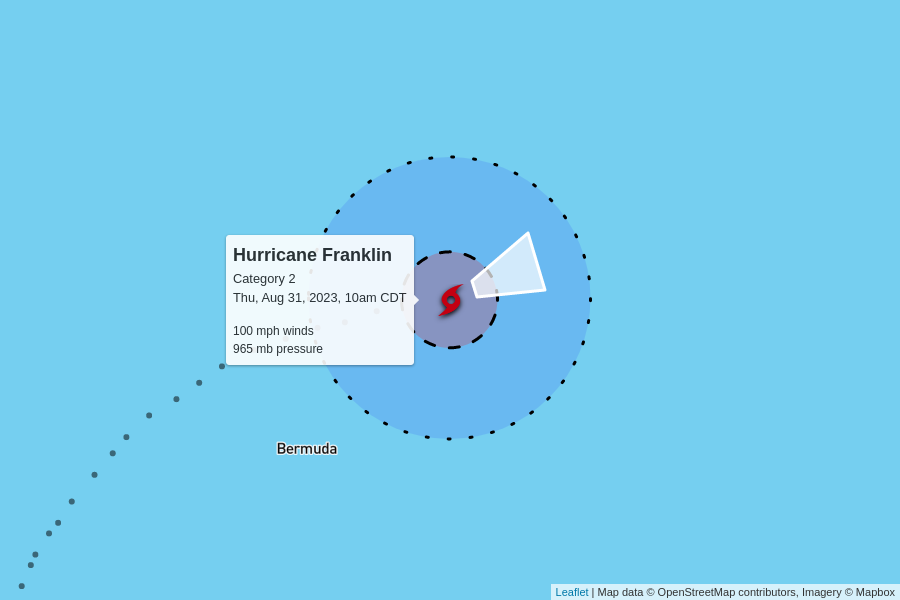
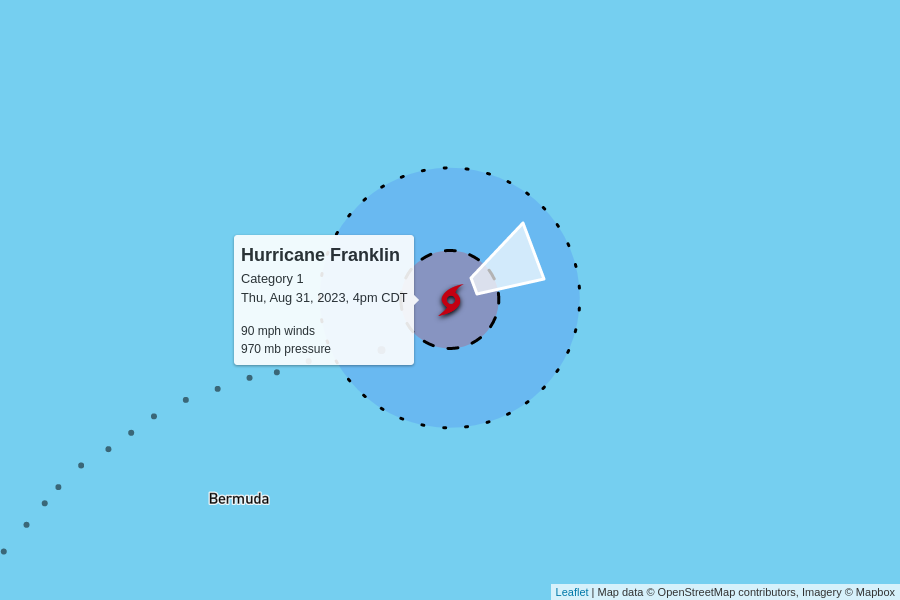
automatic update

diff --git a/docs/index.html b/docs/index.html
@@ -99,8 +99,8 @@
       <tr>
         <td colspan="6" class="storm category-0" >
           <h2>
-            Tropical Storm Idalia
-            <p class="updated">last updated <span data-time>2023-08-31T18:00:00.000Z</span></p>
+            Post-tropical Cyclone Idalia
+            <p class="updated">last updated <span data-time>2023-08-31T21:00:00.000Z</span></p>
           </h2>
         </td>
       </tr>
@@ -118,7 +118,7 @@
         <td>65 mph</td>
         <td>994 mb</td>
         <td>
-          20 mph to the east
+          21 mph to the east
           <br/>
           <span style="display: inline-block; font-size: 1.5em; transform: rotate(90deg);">↑</span>
         </td>
@@ -141,54 +141,10 @@
       
 
       <tr>
-        <td colspan="6" class="storm category-2" >
-          <h2>
-            Hurricane Franklin - Category 2
-            <p class="updated">last updated <span data-time>2023-08-31T15:00:00.000Z</span></p>
-          </h2>
-        </td>
-      </tr>
-      
-      <tr>
-        <th class="spacer"></th>
-        <th>wind speed</th>
-        <th>central pressure</th>
-        <th>movement</th>
-        <th>data (CSV)</th>
-        <th>National Hurricane Center</th>
-      </tr>
-      <tr>
-        <td class="spacer"></td>
-        <td>100 mph</td>
-        <td>965 mb</td>
-        <td>
-          14 mph to the east-northeast
-          <br/>
-          <span style="display: inline-block; font-size: 1.5em; transform: rotate(70deg);">↑</span>
-        </td>
-        <td><a href="https://raw.githubusercontent.com/mgwalker/atlantic-hurricanes/main/data/csv/AL082023.csv">AL082023.csv</a></td>
-        <td><a href="https://www.nhc.noaa.gov/archive/2023/FRANKLIN.shtml?">NHC advisories</a></td>
-      </tr>
-      <tr id="storm_AL082023" >
-        <td class="spacer">
-        <td colspan="5">
-          <figure>
-            <img src="AL082023.png">
-            <figcaption>
-              Map data &copy; <a href="https://www.openstreetmap.org/copyright">OpenStreetMap</a> contributors,
-              Imagery &copy; <a href="https://www.mapbox.com/">Mapbox</a> |
-              <a href="https://www.mapbox.com/map-feedback/" target="_blank">Improve this map</a>
-            </figcaption>
-          </figure>
-        </td>
-      </tr>
-      
-
-      <tr>
         <td colspan="6" class="storm category-0" >
           <h2>
             Tropical Storm Jose
-            <p class="updated">last updated <span data-time>2023-08-31T15:00:00.000Z</span></p>
+            <p class="updated">last updated <span data-time>2023-08-31T21:00:00.000Z</span></p>
           </h2>
         </td>
       </tr>
@@ -204,9 +160,9 @@
       <tr>
         <td class="spacer"></td>
         <td>40 mph</td>
-        <td>1010 mb</td>
+        <td>1009 mb</td>
         <td>
-          7 mph to the north
+          12 mph to the north
           <br/>
           <span style="display: inline-block; font-size: 1.5em; transform: rotate(360deg);">↑</span>
         </td>
@@ -218,6 +174,50 @@
         <td colspan="5">
           <figure>
             <img src="AL112023.png">
+            <figcaption>
+              Map data &copy; <a href="https://www.openstreetmap.org/copyright">OpenStreetMap</a> contributors,
+              Imagery &copy; <a href="https://www.mapbox.com/">Mapbox</a> |
+              <a href="https://www.mapbox.com/map-feedback/" target="_blank">Improve this map</a>
+            </figcaption>
+          </figure>
+        </td>
+      </tr>
+      
+
+      <tr>
+        <td colspan="6" class="storm category-1" >
+          <h2>
+            Hurricane Franklin - Category 1
+            <p class="updated">last updated <span data-time>2023-08-31T21:00:00.000Z</span></p>
+          </h2>
+        </td>
+      </tr>
+      
+      <tr>
+        <th class="spacer"></th>
+        <th>wind speed</th>
+        <th>central pressure</th>
+        <th>movement</th>
+        <th>data (CSV)</th>
+        <th>National Hurricane Center</th>
+      </tr>
+      <tr>
+        <td class="spacer"></td>
+        <td>90 mph</td>
+        <td>970 mb</td>
+        <td>
+          14 mph to the east-northeast
+          <br/>
+          <span style="display: inline-block; font-size: 1.5em; transform: rotate(65deg);">↑</span>
+        </td>
+        <td><a href="https://raw.githubusercontent.com/mgwalker/atlantic-hurricanes/main/data/csv/AL082023.csv">AL082023.csv</a></td>
+        <td><a href="https://www.nhc.noaa.gov/archive/2023/FRANKLIN.shtml?">NHC advisories</a></td>
+      </tr>
+      <tr id="storm_AL082023" >
+        <td class="spacer">
+        <td colspan="5">
+          <figure>
+            <img src="AL082023.png">
             <figcaption>
               Map data &copy; <a href="https://www.openstreetmap.org/copyright">OpenStreetMap</a> contributors,
               Imagery &copy; <a href="https://www.mapbox.com/">Mapbox</a> |
